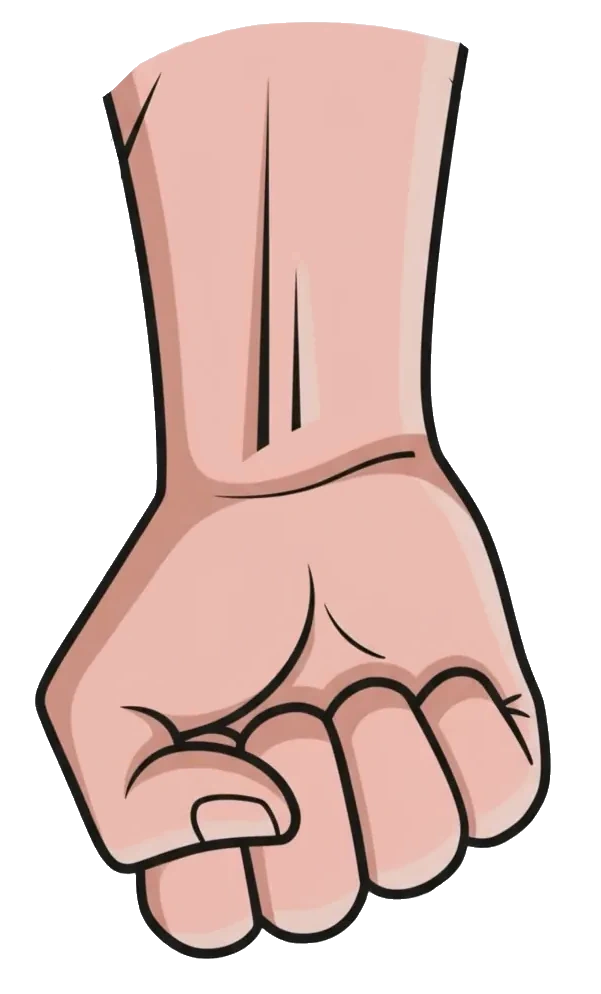
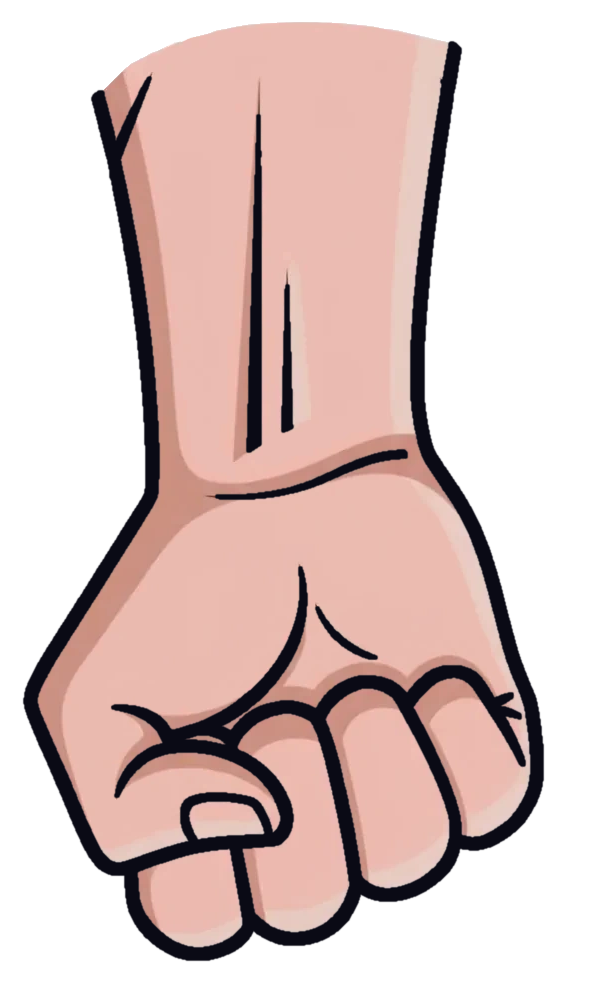
changes i want

Changed region(s): [[0.03, 0.0312, 0.9285, 0.9668], [0.2396, 0.5614, 0.2696, 0.5926]]

diff --git a/js/shooting-star.js b/js/shooting-star.js
@@ -10,6 +10,7 @@
     let lastSpawnTimestamp = 0;
     let lastUnlockedCount = -1;
     let hasLockedWeapons = true;
+    let adBlockCount = 0;
 
     window.ShootingStarManager = {
         init: function () {
@@ -26,6 +27,7 @@
             star = null;
             clickStars = [];
             lastUnlockedCount = -1;
+            adBlockCount = 0;
             console.log("[ShootingStar] Initialized. Spawn scheduled at " + spawnTime.toFixed(2) + "s");
         },
 
@@ -51,16 +53,30 @@
             const now = Date.now();
             const adCooldownActive = (now - (window.lastAdPlayTime || 0) < 30000);
 
-            if (!starClaimedThisLevel && !firstAttemptFired && planetTimeSpent >= spawnTime) {
-                firstAttemptFired = true;
-                if (!adCooldownActive && (now - lastSpawnTimestamp >= 20000)) {
-                    this.spawn();
+            let shouldAttemptSpawn = false;
+            if (!starClaimedThisLevel) {
+                if (!firstAttemptFired && planetTimeSpent >= spawnTime) {
+                    firstAttemptFired = true;
+                    if (now - lastSpawnTimestamp >= 20000) {
+                        shouldAttemptSpawn = true;
+                    }
+                } else if (!star && planetTimeSpent >= lastRetryTime + 65) {
+                    lastRetryTime += 65;
+                    if (now - lastSpawnTimestamp >= 24000) {
+                        shouldAttemptSpawn = true;
+                    }
                 }
             }
 
-            if (!starClaimedThisLevel && !star && planetTimeSpent >= lastRetryTime + 65) {
-                lastRetryTime += 65;
-                if (!adCooldownActive && (now - lastSpawnTimestamp >= 20000)) {
+            if (shouldAttemptSpawn) {
+                if (adCooldownActive) {
+                    adBlockCount++;
+                    console.log("[ShootingStar] Spawn blocked by ad cooldown. Block count: " + adBlockCount);
+                    if (adBlockCount % 2 === 0) {
+                        console.log("[ShootingStar] Ignoring ad cooldown block (every second time). Spawning anyway.");
+                        this.spawn();
+                    }
+                } else {
                     this.spawn();
                 }
             }

diff --git a/js/planet.js b/js/planet.js
@@ -83,11 +83,11 @@ function initializePlanet() {
                     }
 
                     // Cloud Layer fBm overlay
-                    const cloudX = nx * 4.2 + cloudSeedX;
-                    const cloudY = ny * 4.2 + cloudSeedY;
+                    const cloudX = nx * 6.0 + cloudSeedX;
+                    const cloudY = ny * 6.0 + cloudSeedY;
                     const cloudVal = fbm(cloudX, cloudY, 4);
-                    if (cloudVal > 0.52) {
-                        const cloudOpacity = Math.min((cloudVal - 0.52) / 0.18, 0.85);
+                    if (cloudVal > 0.55) {
+                        const cloudOpacity = Math.min((cloudVal - 0.55) / 0.18, 0.85);
                         r = Math.floor(r * (1 - cloudOpacity) + 255 * cloudOpacity);
                         g = Math.floor(g * (1 - cloudOpacity) + 255 * cloudOpacity);
                         b = Math.floor(b * (1 - cloudOpacity) + 255 * cloudOpacity);
@@ -1683,6 +1683,7 @@ function resetGame(keepCooldowns = false, isPlanetSwitch = false) {
     activeWorms = [];
     activeBlackHoles = [];
     activeFists = [];
+    activeFistVisualExplosions = [];
     activeStars = [];
     activeStarProjectiles = [];
     activeMysteryBoxes = [];
